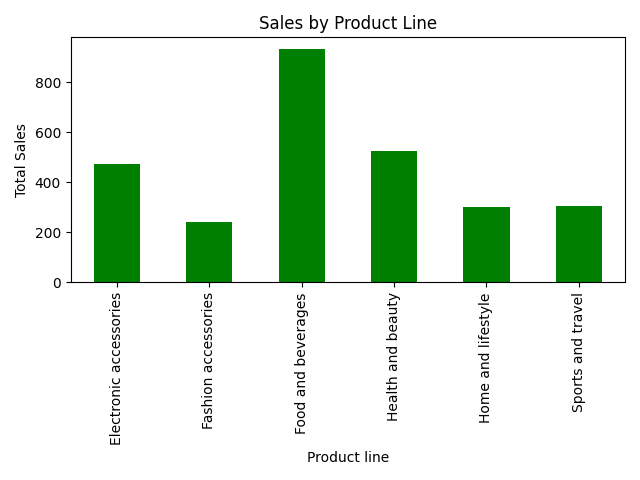
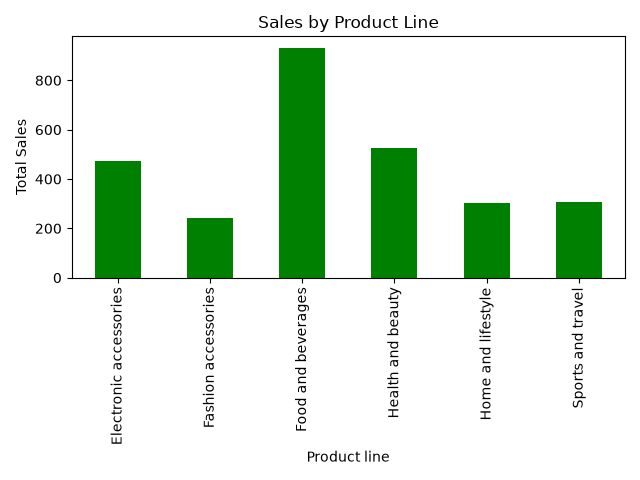
Add Lesson 06: Multiple charts dashboard - Sales, Customers and Profit

diff --git a/lesson-06-multiple-charts/lesson6.py b/lesson-06-multiple-charts/lesson6.py
@@ -1,0 +1,32 @@
+import pandas as pd
+import matplotlib.pyplot as plt
+
+data = {
+    "Month": ["Jan", "Feb", "Mar", "Apr", "May"],
+    "Sales": [200, 350, 300, 500, 450],
+    "Customers": [20, 35, 30, 50, 45],
+    "Profit": [50, 90, 70, 150, 120]
+}
+
+df = pd.DataFrame(data)
+
+# Create 3 charts in one window
+fig, axes = plt.subplots(1, 3, figsize=(15, 5))
+
+# Chart 1 - Sales bar chart
+df.plot(kind="bar", x="Month", y="Sales", ax=axes[0], color="blue", legend=False)
+axes[0].set_title("Monthly Sales")
+
+# Chart 2 - Customers line chart
+df.plot(kind="line", x="Month", y="Customers", ax=axes[1], color="green", legend=False)
+axes[1].set_title("Monthly Customers")
+
+# Chart 3 - Profit bar chart
+df.plot(kind="bar", x="Month", y="Profit", ax=axes[2], color="orange", legend=False)
+axes[2].set_title("Monthly Profit")
+
+plt.tight_layout()
+plt.savefig("dashboard.png")
+plt.show()
+
+print("Dashboard saved!")